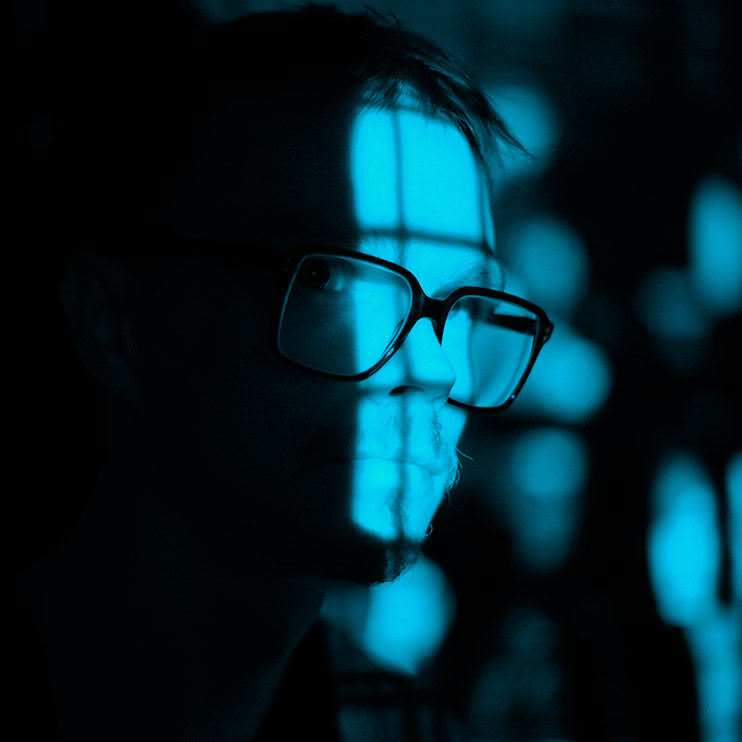
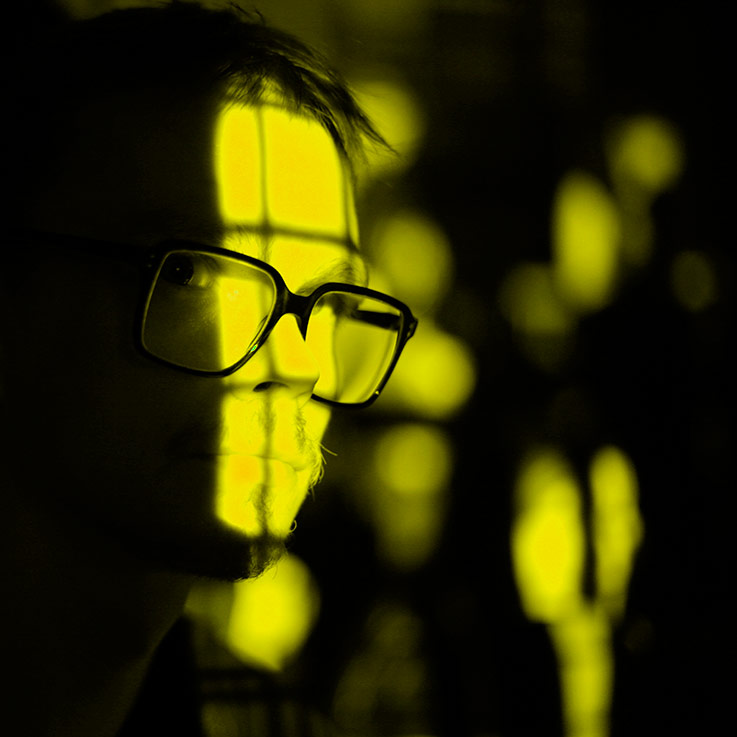
Update image and link colors

diff --git a/css/main.css b/css/main.css
@@ -62,14 +62,14 @@ li {
 }
 
 a {
-	color: #ffffff;
+	color: #edde1d;
 	text-decoration: none;
-	border-bottom: 1px dotted #ffffff;
+	border-bottom: 1px dotted #edde1d;
 }
 
 a:hover {
-	color: #dddddd;
-	border-bottom: 1px dotted #dddddd;
+	color: #6f6f02;
+	border-bottom: 1px dotted #6f6f02;
 }
 
 .wrapper {
